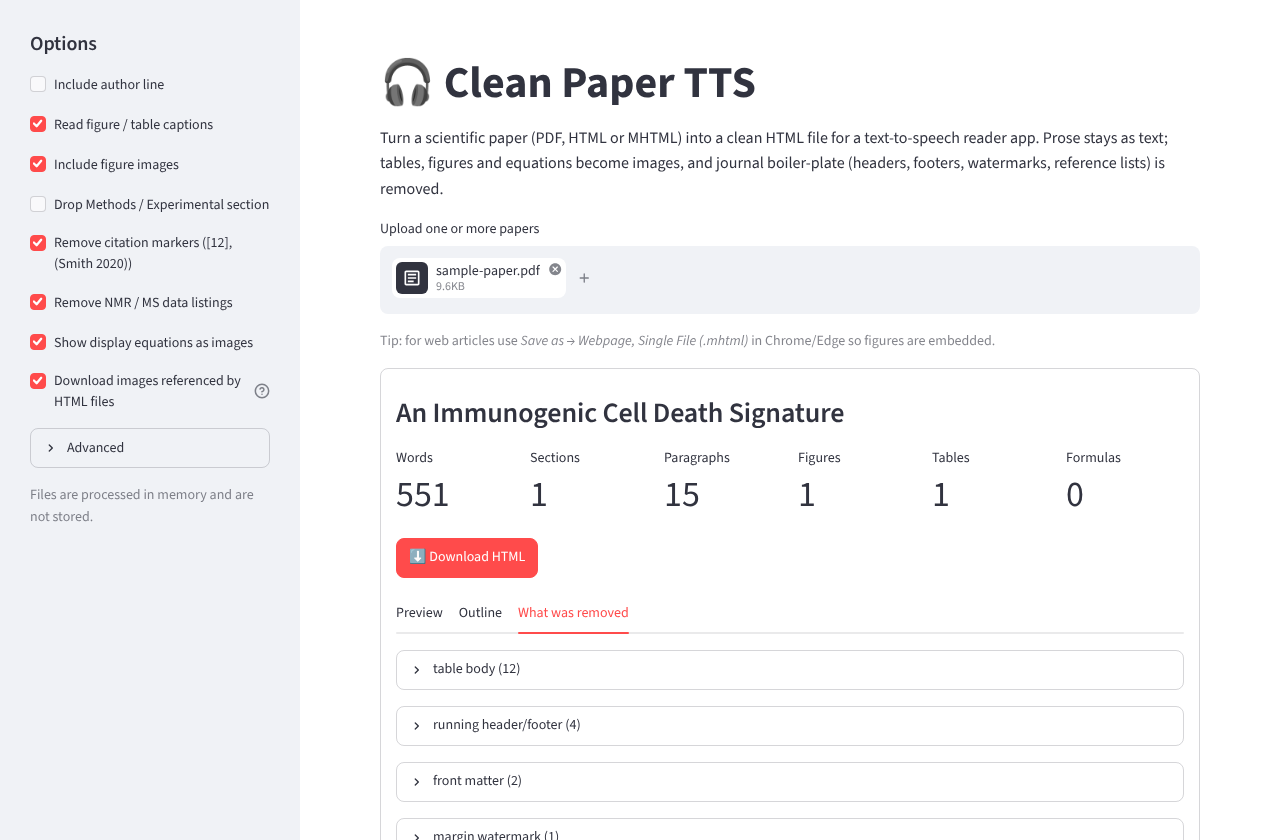
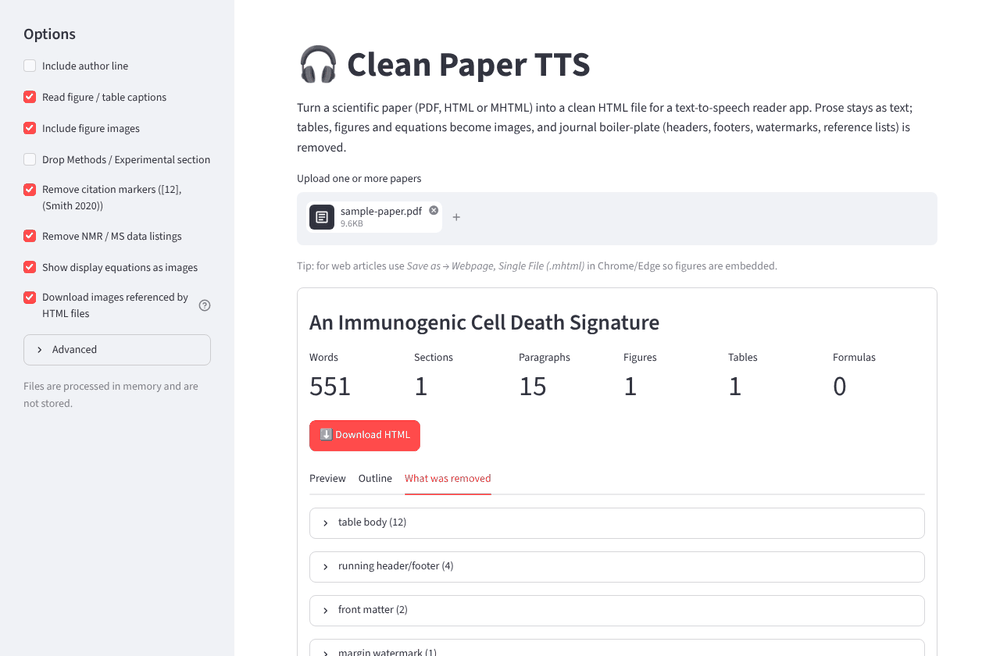
README: replace mermaid with text diagram, drop CI badge, lighter screenshots
Claude-Session: https://claude.ai/code/session_01V73A6JR2uapGBn4pXaSfJg

Changed region(s): [[0.31, 0.6402, 0.403, 0.6707], [0.403, 0.7012, 0.434, 0.7317]]

diff --git a/README.md b/README.md
@@ -8,7 +8,6 @@ PDF · HTML · MHTML &nbsp;→&nbsp; one clean HTML file for your phone's text-t
 
 [![Open the app](https://static.streamlit.io/badges/streamlit_badge_black_white.svg)](https://clean-paper-tts.streamlit.app/)
 &nbsp;
-[![tests](https://github.com/pavrostiva/clean-paper-tts/actions/workflows/ci.yml/badge.svg)](https://github.com/pavrostiva/clean-paper-tts/actions/workflows/ci.yml)
 ![python](https://img.shields.io/badge/python-3.10%2B-blue)
 ![license](https://img.shields.io/badge/license-MIT-green)
 
@@ -118,14 +117,19 @@ print(result.document.stats(), result.document.warnings)
 
 ## How it works
 
-```mermaid
-flowchart LR
-    A[PDF] --> R1[PDF reader<br/>PyMuPDF layout analysis]
-    B[HTML / MHTML] --> R2[HTML reader<br/>article body + DOM walk]
-    R1 --> D[(Document<br/>headings · paragraphs · images)]
-    R2 --> D
-    D --> F[Filters<br/>text clean-up · noise · sections · chemistry]
-    F --> W[HTML writer<br/>one self-contained file]
+```text
+  PDF ───────────► PDF reader ────────┐        layout analysis: columns, figures,
+                   (PyMuPDF)          │        tables, equations, reading order
+                                      ▼
+                               ┌─────────────┐     ┌──────────────────────────┐     ┌─────────────────┐
+                               │  Document   │ ──► │  Filters                 │ ──► │  one clean,     │
+                               │ headings    │     │  text · noise · sections │     │  self-contained │
+                               │ paragraphs  │     │  citations · chemistry   │     │  HTML file      │
+                               │ images      │     └──────────────────────────┘     └─────────────────┘
+                               └─────────────┘
+                                      ▲
+  HTML / MHTML ──► HTML reader ───────┘        article body, MathML/MathJax/KaTeX,
+                   (BeautifulSoup)             tables, figures, citation links
 ```
 
 ```
